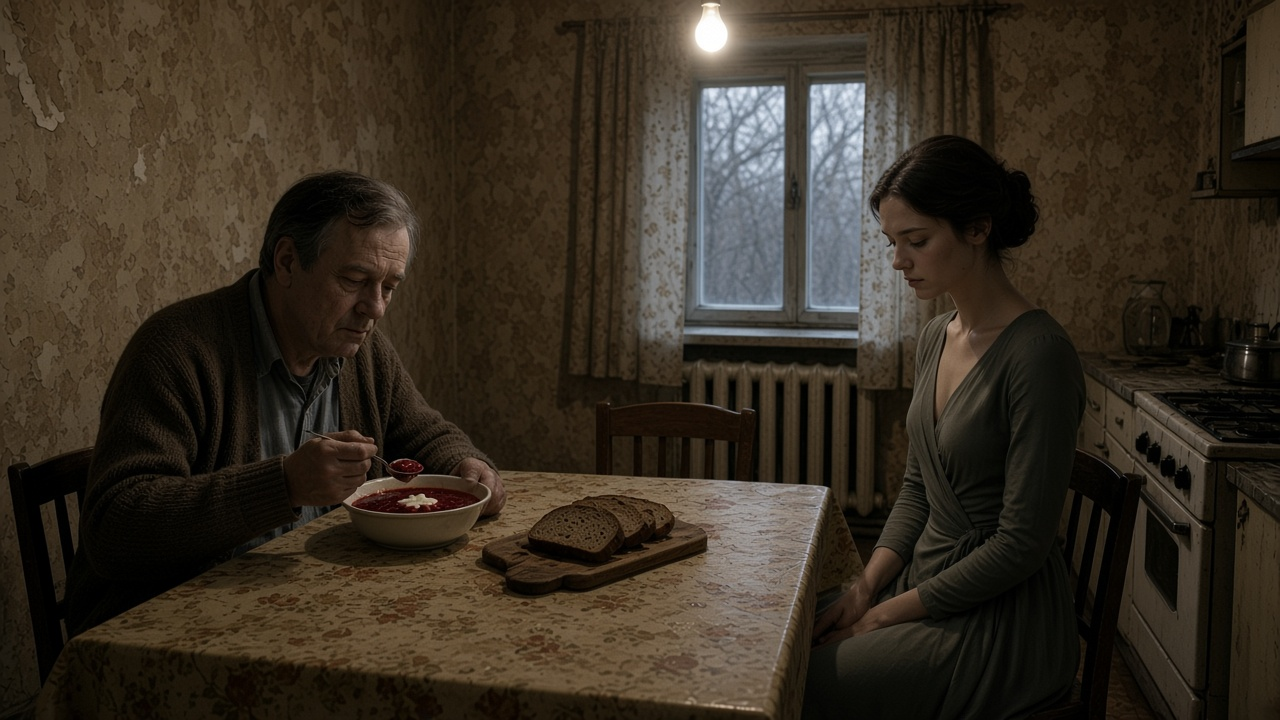
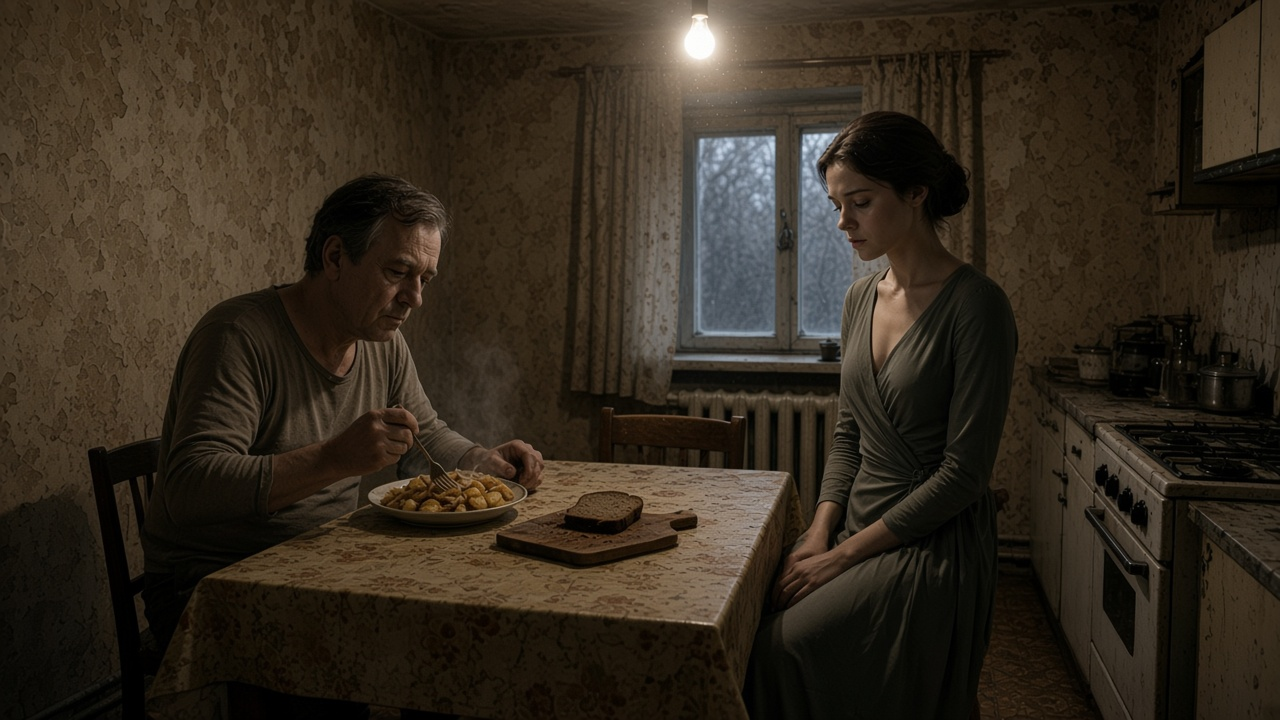
fix: Глава 6 — замість борщу жарена картопля з цибулею
Виправлення реалізму:
- ❌ Було: borscht з сметаною (занадто elaborate)
- ✅ Тепер: fried potatoes + onions (бідна їжа 1992)

Контекст: більш реалістична бідна сім'я
Old version → _old-tom1-v2-06-borscht.png

diff --git a/assets/illustrations/tom1-v2/CATALOG-V2.md b/assets/illustrations/tom1-v2/CATALOG-V2.md
@@ -73,10 +73,11 @@
 
 ### 06-empty-place — Кухня Віктора
 - Viktor and Olya at table
-- EMPTY CHAIR (daughter)
-- Borscht with sour cream cross
+- Distance between them (empty chair implied)
+- **Fried potatoes with onions** (poor meal, not borscht)
 - Black bread
 - Soviet kitchen interior reference
+- Реалізм: бідна їжа 1992 року
 
 ### 07-dekanat — Печать
 - Close-up: stamp on document
